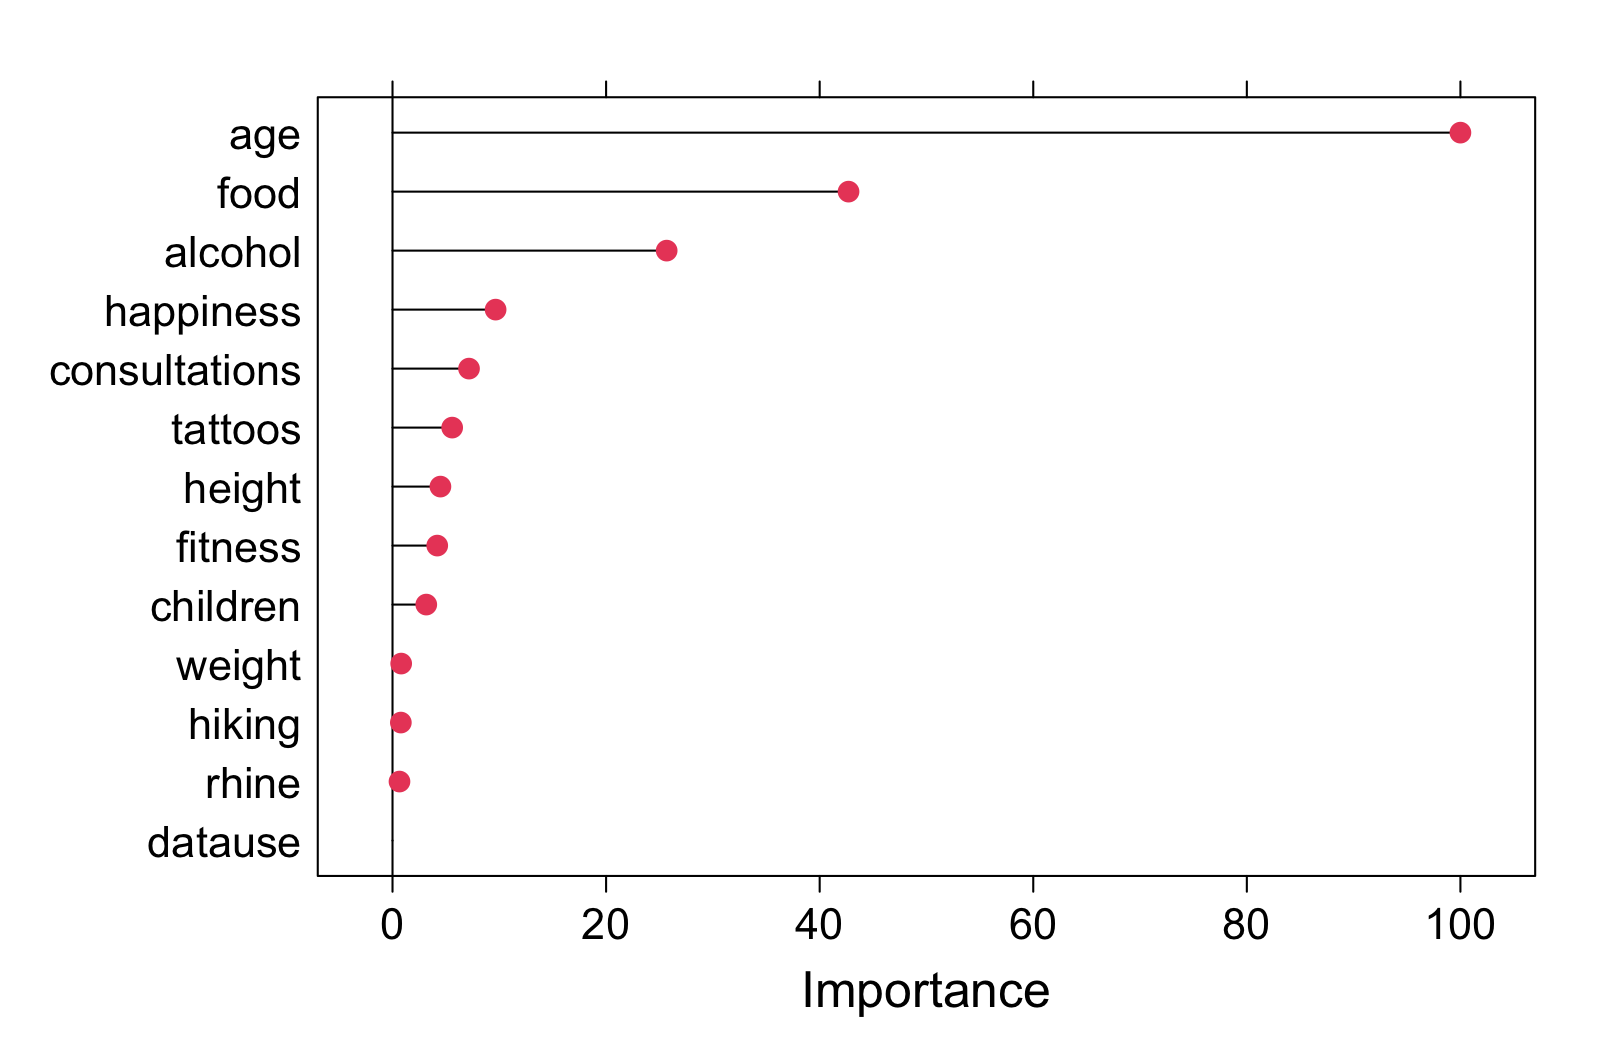
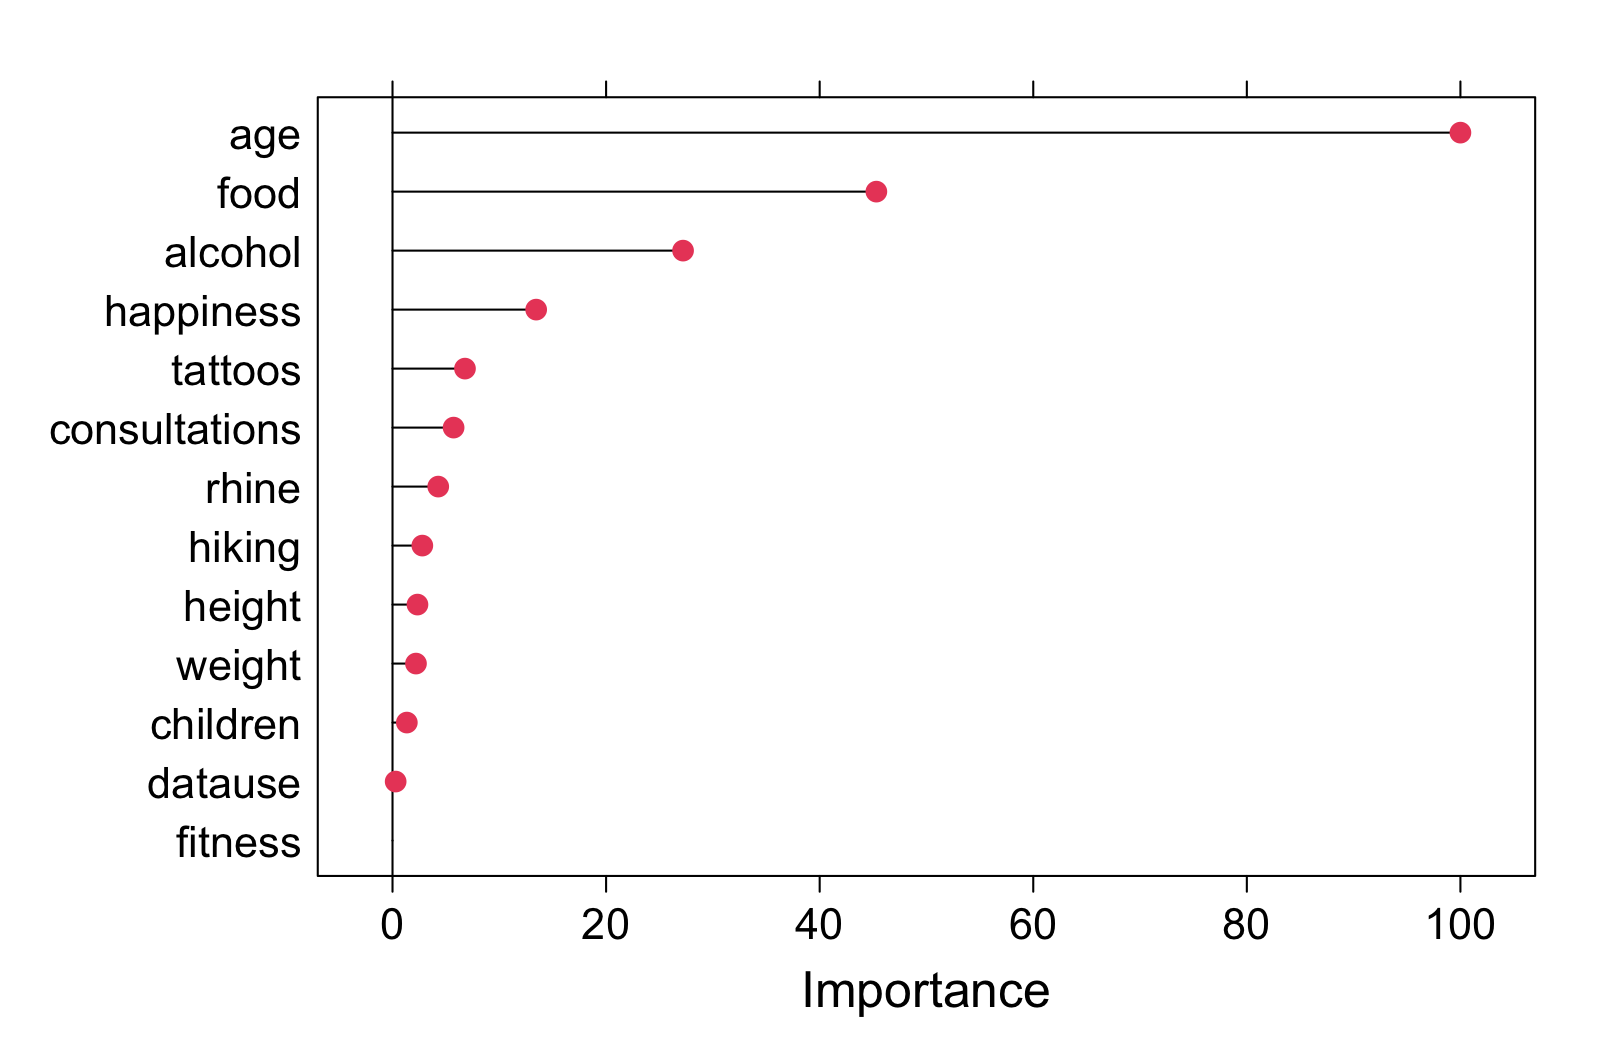
ddew

diff --git a/_sessions/Optimization/Optimization.html b/_sessions/Optimization/Optimization.html
@@ -25,7 +25,7 @@ layout: true
 &lt;a href="https://therbootcamp.github.io/"&gt;&lt;font color="#7E7E7E"&gt;Applied Machine Learning with R, January 2019&lt;/font&gt;&lt;/a&gt;
 &amp;emsp;&amp;emsp;&amp;emsp;&amp;emsp;&amp;emsp;&amp;emsp;&amp;emsp;&amp;emsp;&amp;emsp;&amp;emsp;&amp;emsp;&amp;emsp;&amp;emsp;&amp;emsp;&amp;emsp;&amp;emsp;&amp;emsp;&amp;emsp;&amp;emsp;&amp;emsp;
 &lt;a href="https://therbootcamp.github.io/"&gt;&lt;font color="#7E7E7E"&gt;www.therbootcamp.com&lt;/font&gt;&lt;/a&gt;
-&lt;/span&gt;&lt;/div&gt; 
+&lt;/span&gt;&lt;/div&gt;
 
 ---
 
@@ -130,9 +130,11 @@ Use &lt;high&gt;cross-validation&lt;/high&gt; to find &lt;high&gt;optimal tuning
 
 &lt;high&gt;Tuning parameters&lt;/high&gt; are parameters that &lt;high&gt;guide&lt;/high&gt; (aka. 'tune') a model during fitting.
 
+
 - Decision trees: complexity tuning parameter &lt;high&gt;cp&lt;/high&gt;
+
 - Random forests diversity tuning parameter &lt;high&gt;mtry&lt;/high&gt;
-    
+
 Tuning parameters do not show up in the final model (you never see a complexity parameter in a final decision tree)! They are only used to guide fitting.
 
 There is not one 'best' tuning parameter, it always depends on your specific dataset.
@@ -189,9 +191,9 @@ There are two common methods to fit penalized (aka regularized) regression model
 
 ### Ridge
 
-To fit Ridge penalized regression in R, use `method = "glmnet`.
+To fit Ridge penalized regression in R, use `method = "glmnet"`.
 
-In the `tuneGrid` argument: 
+In the `tuneGrid` argument:
 
 - `alpha = 0` indicates the `\(\ell2\)` Ridge penalty.
 - `lambda` = Vector of lambda tuning parameters values to try.
@@ -252,9 +254,9 @@ There are two common methods to fit penalized (aka regularized) regression model
 
 ### Lasso
 
-To fit Lasso penalized regression in R, use `method = "glmnet`.
+To fit Lasso penalized regression in R, use `method = "glmnet"`.
 
-In the `tuneGrid` argument: 
+In the `tuneGrid` argument:
 
 - `alpha = 1` indicates the `\(\ell1\)` Lasso penalty
 - `lambda` = Vector of lambda tuning parameters values to try.
@@ -289,7 +291,7 @@ train(form = criterion ~ .,
 
 Cross-validation is a sampling procedure performed on training data used to &lt;high&gt;estimate a model's prediction performance&lt;/high&gt; in future test data, and to determine &lt;high&gt;optimal tuning parameters&lt;/high&gt; selected to minimize prediction error.
 
-Cross-validation is not "cheating: because it is only performed on the training data (never on the true test dataset)
+Cross-validation is not "cheating": because it is only performed on the training data (never on the true test dataset)
 
 After cross-validation is complete, the model is trained on the entire dataset, using optimal tuning parameters, resulting in a &lt;high&gt;final model&lt;/high&gt; which can be used for future model testing.
 
@@ -414,8 +416,8 @@ When you pass this object to `train()` (for any model), caret will find best par
 
 ```r
 # Specify 10 fold cross-validation
-ctrl_cv &lt;- trainControl(method = "cv", 
-                        number = 10) 
+ctrl_cv &lt;- trainControl(method = "cv",
+                        number = 10)
 
 # Predict baselers income using lasso regression
 
@@ -541,14 +543,14 @@ If you print the `summary()` of this object, it will print 'prediction' error st
 # Get accuracy statistics across folds for three
 #  models that I have fit with cross validation
 
-resamples_mod &lt;- resamples(list(ridge = ridge_mod, 
-                                lasso = lasso_mod, 
+resamples_mod &lt;- resamples(list(ridge = ridge_mod,
+                                lasso = lasso_mod,
                                 glm = glm_mod))
 
 # Print summary of accuracies
 summary(resamples_mod)
 
-# MAE 
+# MAE
 #         Min. 1st Qu. Median   Mean 3rd Qu.   Max. NA's
 # ridge 1057.9  1078.9 1083.2 1090.1  1112.0 1118.5    0
 # lasso  865.7   892.7  897.2  902.9   914.2  944.8    0
@@ -582,12 +584,23 @@ if (window.HTMLWidgets) slideshow.on('afterShowSlide', function (slide) {
   d.head.appendChild(s);
 })();</script>
 
-<script type="text/x-mathjax-config">
-MathJax.Hub.Config({
-  tex2jax: {
-    skipTags: ['script', 'noscript', 'style', 'textarea', 'pre']
+<script>
+(function() {
+  var i, text, code, codes = document.getElementsByTagName('code');
+  for (i = 0; i < codes.length;) {
+    code = codes[i];
+    if (code.parentNode.tagName !== 'PRE' && code.childElementCount === 0) {
+      text = code.textContent;
+      if (/^\\\((.|\s)+\\\)$/.test(text) || /^\\\[(.|\s)+\\\]$/.test(text) ||
+          /^\$\$(.|\s)+\$\$$/.test(text) ||
+          /^\\begin\{([^}]+)\}(.|\s)+\\end\{[^}]+\}$/.test(text)) {
+        code.outerHTML = code.innerHTML;  // remove <code></code>
+        continue;
+      }
+    }
+    i++;
   }
-});
+})();
 </script>
 <!-- dynamically load mathjax for compatibility with self-contained -->
 <script>

diff --git a/_sessions/Features/Features.html b/_sessions/Features/Features.html
@@ -165,17 +165,17 @@ varImp(income_lm)
 ```
 lm variable importance
 
-          Overall
-age       100.000
-food       42.714
-alcohol    25.468
-happiness  10.230
-tattoos     6.204
-fitness     4.867
-height      3.911
-children    3.563
-datause     0.565
-weight      0.000
+           Overall
+age       100.0000
+food       44.7884
+alcohol    26.5438
+happiness  13.4196
+tattoos     6.6086
+children    1.3528
+weight      1.2783
+height      1.2212
+fitness     0.0147
+datause     0.0000
 ```
 
 ]
@@ -225,15 +225,15 @@ Outer resampling method: Bootstrapped (25 reps)
 
 Resampling performance over subset size:
 
- Variables  RMSE Rsquared   MAE RMSESD RsquaredSD  MAESD Selected
-         3 0.374    0.865 0.294 0.0152     0.0135 0.0114         
-         4 0.373    0.865 0.293 0.0161     0.0142 0.0122         
-         5 0.372    0.865 0.292 0.0158     0.0146 0.0123         
-        10 0.371    0.867 0.291 0.0157     0.0150 0.0119         
-        14 0.371    0.867 0.291 0.0160     0.0152 0.0121        *
+ Variables  RMSE Rsquared   MAE RMSESD RsquaredSD   MAESD Selected
+         3 0.376    0.854 0.299 0.0102     0.0133 0.00768         
+         4 0.372    0.858 0.294 0.0122     0.0137 0.00895        *
+         5 0.372    0.858 0.294 0.0128     0.0143 0.00939         
+        10 0.373    0.857 0.295 0.0129     0.0150 0.00947         
+        14 0.373    0.857 0.295 0.0127     0.0147 0.00932         
 
-The top 5 variables (out of 14):
-   age, food, alcohol, happiness, consultations
+The top 4 variables (out of 4):
+   age, food, alcohol, happiness
 ```
 
 ]
@@ -478,7 +478,7 @@ duw
 
 class: middle, center
 
-&lt;h1&gt;&lt;a href="https://therbootcamp.github.io/appliedML_2019Jan/_sessions/Features/Features_practical.html&gt;Practical"&lt;/a&gt;&lt;/h1&gt;
+&lt;h1&gt;&lt;a href="https://therbootcamp.github.io/appliedML_2019Jan/_sessions/Features/Features_practical.html&gt;Practical"&lt;/a&gt;Practical&lt;/h1&gt;
     </textarea>
 <script src="https://remarkjs.com/downloads/remark-latest.min.js"></script>
 <script>var slideshow = remark.create({

diff --git a/_sessions/Optimization/libs/remark-css/default.css b/_sessions/Optimization/libs/remark-css/default.css
@@ -51,14 +51,14 @@ blockquote {
   border-left: solid 5px lightgray;
   padding-left: 1em;
 }
-table {
+.remark-slide table {
   margin: auto;
   border-top: 1px solid #666;
   border-bottom: 1px solid #666;
 }
-table thead th { border-bottom: 1px solid #ddd; }
+.remark-slide table thead th { border-bottom: 1px solid #ddd; }
 th, td { padding: 5px; }
-thead, tfoot, tr:nth-child(even) { background: #eee }
+.remark-slide thead, .remark-slide tfoot, .remark-slide tr:nth-child(even) { background: #eee }
 
 @page { margin: 0; }
 @media print {

diff --git a/_sessions/Models/Models.html b/_sessions/Models/Models.html
@@ -469,7 +469,7 @@ The new features aka &lt;high&gt;principal components are greedy&lt;/high&gt; in
 
 &lt;p align = "center"&gt;
 &lt;img src="image/mlmap.png" height = 450px&gt;&lt;br&gt;
-&lt;font size=3&gt;source: scikit-learn&lt;/font&gt;
+&lt;font size=3&gt;Source: scikit-learn&lt;/font&gt;
 &lt;/p&gt;
 
 
